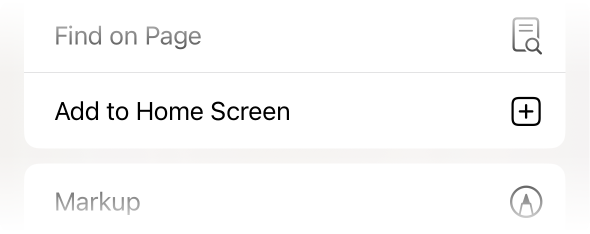
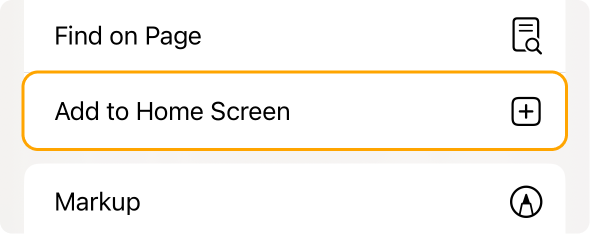
Update colors
* Refactor styles

* Add dark mode

* Fix input color

* Update dark mode theme

* Update color scheme

* Disable dark theme for now, not feeling it

diff --git a/src/components/AmountInput.module.css b/src/components/AmountInput.module.css
@@ -1,6 +1,6 @@
 :root {
   /* Make sure to match with AmountInput `fontSize` variable */
-  --defaultSize: 36px;
+  --default-font-size: 36px;
 }
 
 .container {
@@ -33,7 +33,7 @@
 .input {
   background: transparent;
   text-align: center;
-  font-size: var(--defaultSize);
+  font-size: var(--default-font-size);
   font-weight: 500;
   color: var(--brown-5);
   height: 100%;
@@ -48,8 +48,8 @@
   }
 }
 
-input::placeholder {
-  color: var(--hover-dark);
+.input::placeholder {
+  color: var(--dim);
 }
 
 .input:focus {
@@ -62,7 +62,7 @@ input::placeholder {
 }
 
 .txtWidth {
-  font-size: var(--defaultSize);
+  font-size: var(--default-font-size);
   visibility: hidden;
   height: 0;
   opacity: 0;
@@ -90,7 +90,8 @@ input::placeholder {
   }
 }
 
-.stepper:active {
+.stepper:active,
+.stepper:focus {
   opacity: 1;
 }
 
@@ -140,9 +141,11 @@ input::placeholder {
   display: flex;
   flex-direction: column;
   background-color: var(--brown-1);
+  border-width: 1px;
+  border-color: var(--brown-4);
   border-radius: 0.75rem;
   padding: 0.5rem 0;
-  box-shadow: 2px 0 8px var(--hover), 0 0 0 1px var(--hover);
+  box-shadow: 0 8px 24px var(--shadow-dark);
   z-index: 10;
   opacity: 0;
   transform: translateY(-8px);
@@ -177,9 +180,9 @@ input::placeholder {
 }
 
 .item small {
+  color: var(--dim);
   font-size: 0.75em;
   margin-right: auto;
-  opacity: 0.75;
   white-space: nowrap;
 }
 

diff --git a/src/components/IosDialog.module.css b/src/components/IosDialog.module.css
@@ -1,5 +1,5 @@
 .button {
-  background-color: var(--accent-1);
+  background-color: var(--accent);
   border-radius: 0.5rem;
   color: #fff;
   font-size: 1rem;
@@ -12,22 +12,21 @@
 
 @media (hover: hover) {
   .button:hover {
-    background-color: var(--accent-2);
+    background-color: var(--accent-light);
   }
 }
 
 .button:active {
-  background-color: var(--accent-2);
+  background-color: var(--accent-light);
 }
 
 .dismiss {
   background: transparent;
   border-radius: 0.5rem;
-  color: var(--brown-5);
+  color: var(--dim);
   font-size: 0.875rem;
   font-weight: 500;
   margin-top: 0.75rem;
-  opacity: 0.75;
   padding: 0.5rem 1rem;
   text-align: center;
   width: 100%;
@@ -47,7 +46,7 @@
   display: flex;
   align-items: center;
   justify-content: center;
-  background-color: var(--hover);
+  background-color: var(--shadow);
   opacity: 0;
   transition-property: opacity, backdrop-filter;
   transition-timing-function: cubic-bezier(0.4, 0, 0.2, 1);
@@ -75,10 +74,10 @@
   max-width: calc(100% - 1.25rem * 2);
   overflow: auto;
   border-radius: 1rem;
-  background-color: #fff;
+  background-color: var(--brown-1);
   padding: 1.5rem;
   color: hsl(204 10% 10%);
-  box-shadow: 0 25px 50px -12px var(--hover-dark);
+  box-shadow: 0 25px 50px -12px var(--shadow-dark);
   transform-origin: center;
   opacity: 0;
   transition-property: opacity, transform;

diff --git a/src/index.css b/src/index.css
@@ -2,18 +2,34 @@
 @import url('reset.css');
 
 :root {
-  --brown-1: #fff9f2;
-  --brown-2: #efe8e1;
-  --brown-3: #dfd8d0;
-  --brown-4: #cfc6bd;
+  --brown-1: #fff8f0;
+  --brown-2: #f0e8e0;
+  --brown-3: #e3d9cf;
+  --brown-4: #d2c9c1;
   --brown-5: #403020;
-  --accent-1: #ffa500;
-  --accent-2: #ffb833;
-  --hover: rgba(64, 43, 26, 0.1);
-  --hover-dark: rgba(64, 43, 26, 0.25);
+  --dim: #40302099;
+  --accent: #ffa500;
+  --accent-light: #ffb833;
+  --shadow: rgba(0, 0, 0, 0.05);
+  --shadow-dark: rgba(0, 0, 0, 0.2);
   --font: 'M PLUS Rounded 1c', sans-serif;
   --ease: all 0.2s ease;
 }
+
+/* @media (prefers-color-scheme: dark) {
+  :root {
+    --brown-1: #221c16;
+    --brown-2: #2e261e;
+    --brown-3: #3b3026;
+    --brown-4: #473b2e;
+    --brown-5: #efe8e1;
+    --dim: #efe8e188;
+    --accent: #e69500;
+    --accent-light: #ffa500;
+    --shadow: rgba(255, 255, 255, 0.08);
+    --shadow-dark: rgba(0, 0, 0, 0.3);
+  }
+} */
 
 html {
   font-size: 17px;

diff --git a/src/components/BrewDetails.module.css b/src/components/BrewDetails.module.css
@@ -38,13 +38,14 @@
   justify-content: space-between;
   flex-wrap: wrap;
   gap: 0.75rem 2rem;
+  font-size: 0.875rem;
+  font-weight: 400;
   padding: 0 2rem 1.25rem 1.25rem;
   user-select: auto;
 }
 
 .table {
   flex-shrink: 0;
-  font-weight: 400;
 }
 
 .table td {
@@ -57,10 +58,8 @@
 }
 
 .note {
-  opacity: 0.75;
-  margin-top: 0.25rem;
+  color: var(--dim);
+  margin-top: 0.125rem;
   line-height: 1.5;
   max-width: 40em;
-  font-size: 0.875rem;
-  font-weight: 400;
 }

diff --git a/src/components/InstallPwaButton.module.css b/src/components/InstallPwaButton.module.css
@@ -1,5 +1,5 @@
 .button {
-  background-color: var(--accent-1);
+  background-color: var(--accent);
   border-radius: 100px;
   color: #fff;
   flex-direction: row;
@@ -11,12 +11,12 @@
 
 @media (hover: hover) {
   .button:hover {
-    background-color: var(--accent-2);
+    background-color: var(--accent-light);
   }
 }
 
 .button:active {
-  background-color: var(--accent-2);
+  background-color: var(--accent-light);
 }
 
 .button svg {

diff --git a/src/components/BrewDetails.tsx b/src/components/BrewDetails.tsx
@@ -41,7 +41,7 @@ export const BrewDetails: React.FC<Props> = ({ details }) => {
         </table>
         <span className={styles.note}>
           Note: Coffee scoops, tablespoons and cups are based on common european sizes. They are useful tools when you
-          don't have access to a scale, but still need to measure out coffee.
+          don't have access to a scale.
         </span>
       </DisclosureContent>
     </div>

diff --git a/src/components/InstallPwaButton.tsx b/src/components/InstallPwaButton.tsx
@@ -40,8 +40,8 @@ export const InstallPwaButton: React.FC = () => {
     setIsPromptEnabled(0);
   };
 
-  if (isBrowser || isInstalled) return null;
-  if (!isPromptEnabled || deferredPrompt === undefined) return null;
+  // if (isBrowser || isInstalled) return null;
+  // if (!isPromptEnabled || deferredPrompt === undefined) return null;
 
   return (
     <>

diff --git a/src/components/MethodButton.module.css b/src/components/MethodButton.module.css
@@ -1,3 +1,8 @@
+:root {
+  --stroke: 2px;
+  --stroke-selected: 1.5px;
+}
+
 .button {
   padding-top: 1rem;
   padding-bottom: 1rem;
@@ -6,10 +11,11 @@
 
 .button svg {
   height: 4rem;
+  stroke-width: var(--stroke);
 }
 
 .button:disabled svg {
-  stroke-width: 1.5px;
+  stroke-width: var(--stroke-selected);
 }
 
 .button span {

diff --git a/src/components/Header.module.css b/src/components/Header.module.css
@@ -29,8 +29,6 @@
 .title {
   font-weight: 700;
   font-size: 1.25rem;
-  line-height: 1.5;
-  margin: 0;
 }
 
 .description {
@@ -40,7 +38,6 @@
 @media only screen and (min-width: 768px) {
   .description {
     display: block;
-    margin: 0;
-    opacity: 0.75;
+    color: var(--brown-4);
   }
 }

diff --git a/src/components/Button.module.css b/src/components/Button.module.css
@@ -27,9 +27,13 @@
   color: var(--brown-1);
 }
 
+.button:disabled small {
+  color: var(--brown-3);
+}
+
 .button small {
+  color: var(--dim);
   font-size: 0.75em;
   font-weight: 400;
-  opacity: 0.75;
   white-space: nowrap;
 }

diff --git a/src/reset.css b/src/reset.css
@@ -323,7 +323,7 @@ button,
 a:focus-visible,
 button:focus-visible,
 [role='button']:focus-visible {
-  outline-color: var(--accent-2);
+  outline-color: var(--accent-light);
   outline-style: solid;
   outline-width: 2px;
 }

diff --git a/src/App.module.css b/src/App.module.css
@@ -76,8 +76,9 @@
 }
 
 .byline {
+  color: var(--dim);
   font-size: 0.75rem;
-  opacity: 0.5;
+  font-weight: 400;
   text-align: center;
   margin-top: 0.375rem;
 }
